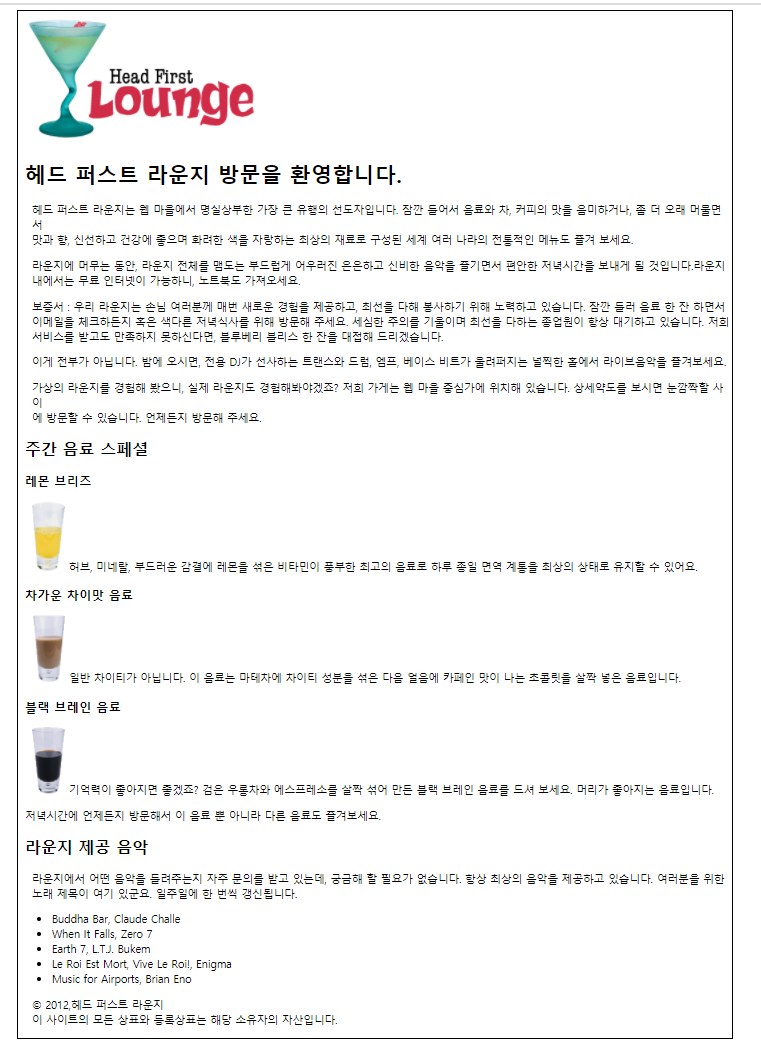
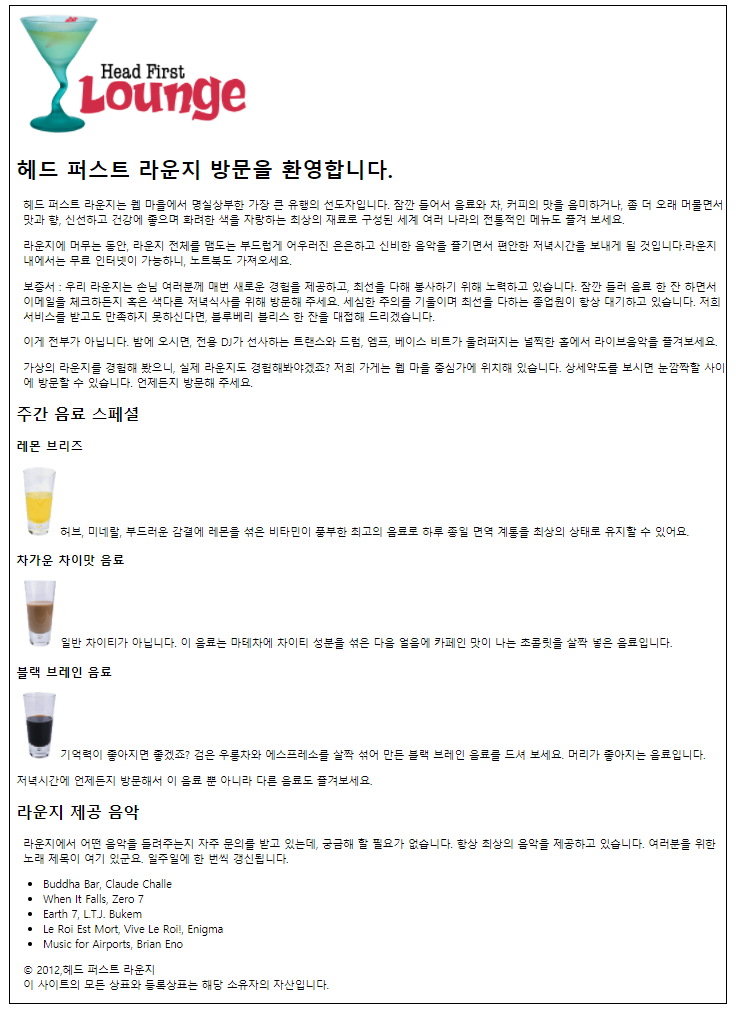
20210811 html

Changed region(s): [[0.0, 0.0, 1.0, 0.9764]]

diff --git a/_posts/2021-08-11-10.md b/_posts/2021-08-11-10.md
@@ -120,7 +120,7 @@ tags: html htmllayout
 ```css
 #wrap {
     border: 1px solid black;
-    width: 1070px;
+    width: 1075px;
     margin: 0 auto;
 }
 
